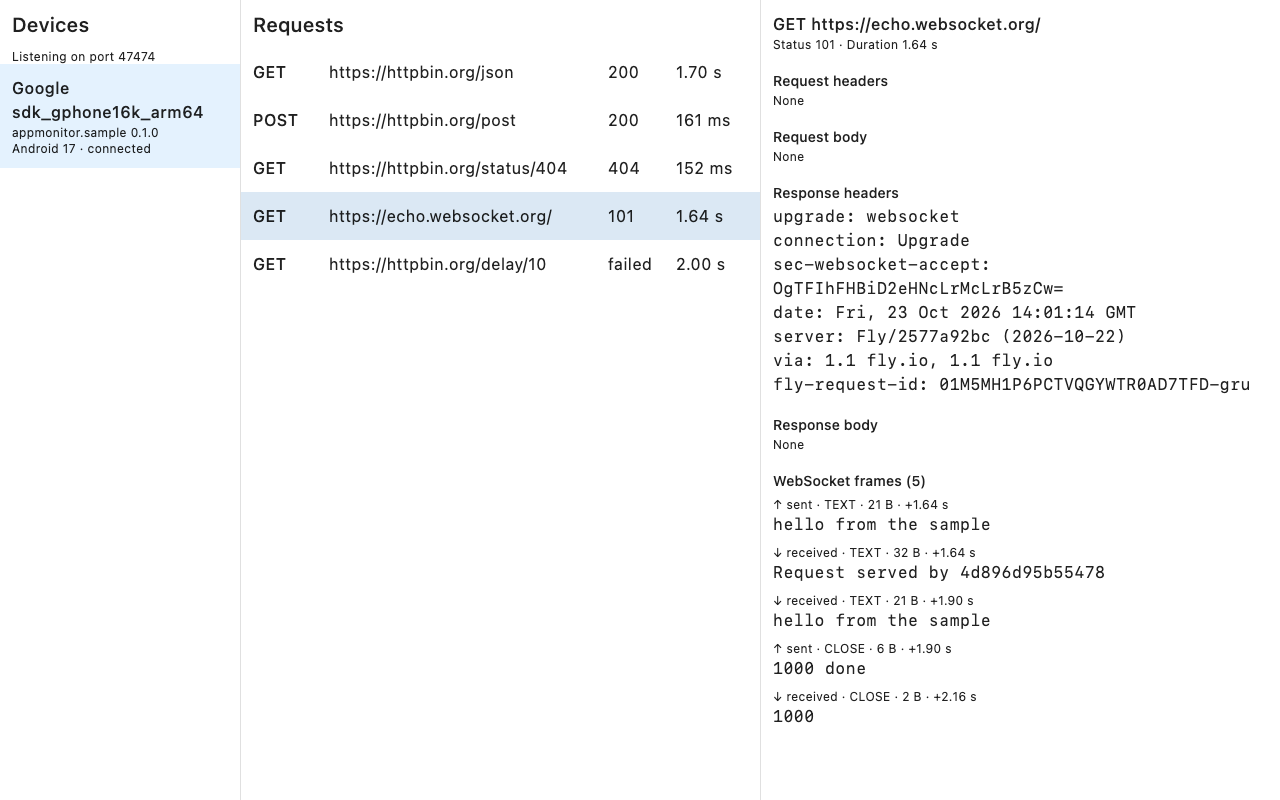
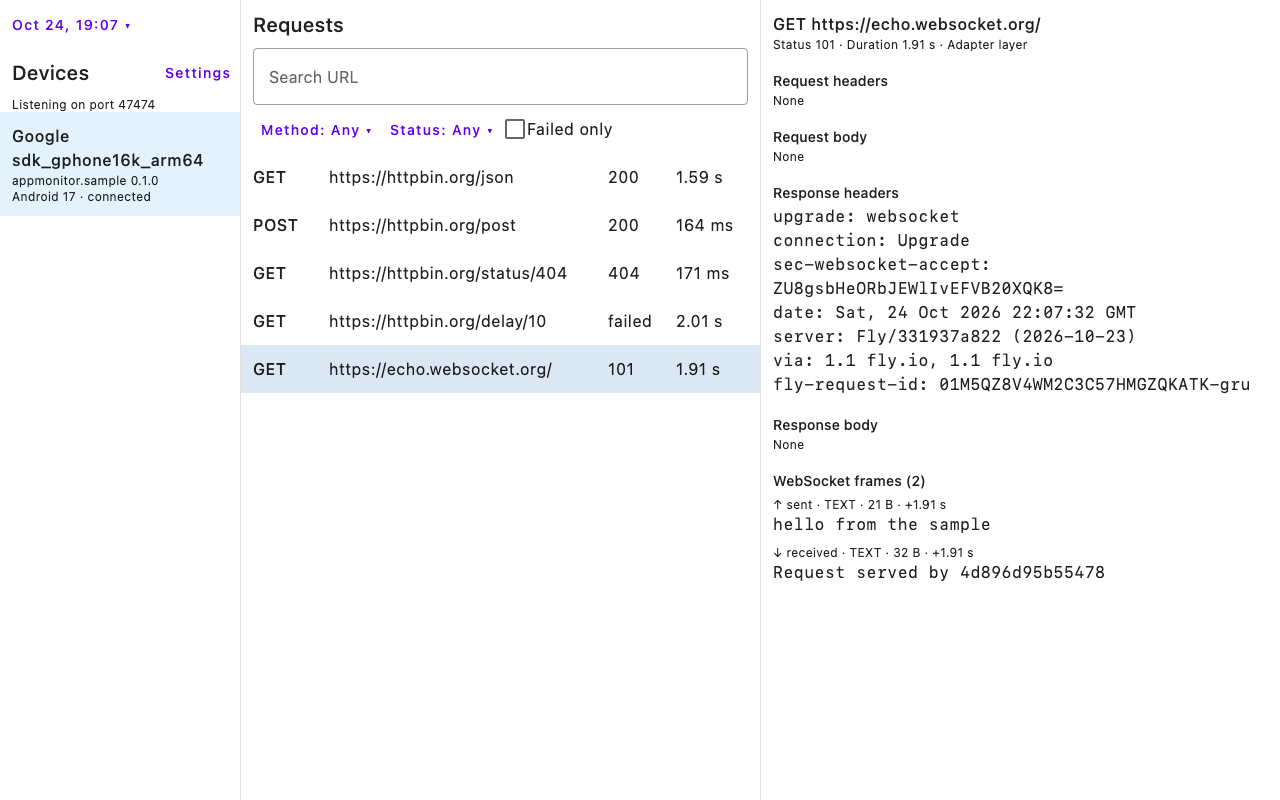
test(desktop): live check across a store reopen and the packaged app

diff --git a/desktop/app/src/test/kotlin/appmonitor/desktop/app/LiveDeviceScreenshots.kt b/desktop/app/src/test/kotlin/appmonitor/desktop/app/LiveDeviceScreenshots.kt
@@ -2,20 +2,23 @@ package appmonitor.desktop.app
 
 import androidx.compose.runtime.collectAsState
 import androidx.compose.runtime.getValue
+import androidx.compose.runtime.remember
 import androidx.compose.ui.graphics.toAwtImage
 import androidx.compose.ui.test.ComposeUiTest
 import androidx.compose.ui.test.ExperimentalTestApi
 import androidx.compose.ui.test.captureToImage
 import androidx.compose.ui.test.onAllNodesWithText
 import androidx.compose.ui.test.onFirst
+import androidx.compose.ui.test.onNodeWithTag
 import androidx.compose.ui.test.onNodeWithText
 import androidx.compose.ui.test.onRoot
 import androidx.compose.ui.test.performClick
 import androidx.compose.ui.test.v2.runDesktopComposeUiTest
+import appmonitor.desktop.app.store.ApprovalStore
 import appmonitor.desktop.app.store.TrafficStore
 import appmonitor.desktop.app.ui.AppMonitorApp
+import appmonitor.desktop.app.ui.RUNS
 import appmonitor.desktop.server.AppMonitorServer
-import appmonitor.desktop.server.DeviceApprovals
 import appmonitor.desktop.server.ServerConfig
 import appmonitor.desktop.storage.Storage
 import kotlinx.coroutines.CoroutineScope
@@ -24,6 +27,7 @@ import kotlinx.coroutines.cancel
 import kotlinx.coroutines.launch
 import kotlinx.coroutines.runBlocking
 import java.io.File
+import java.nio.file.Path
 import javax.imageio.ImageIO
 import kotlin.io.path.createTempDirectory
 import kotlin.test.Test
@@ -31,7 +35,7 @@ import kotlin.time.Duration.Companion.seconds
 
 /**
  * Not a unit test: run by `liveScreenshots` only, against a real device running the sample (ADR-0031).
- * Real server on the default port with mDNS, the window's composable rendered offscreen.
+ * Real server on the default port with mDNS, the window's composable rendered offscreen, then the store reopened.
  */
 @OptIn(ExperimentalTestApi::class)
 class LiveDeviceScreenshots {
@@ -39,13 +43,19 @@ class LiveDeviceScreenshots {
     private val exchanges = System.getProperty("liveExchanges", "5").toInt()
     private val timeoutMs = System.getProperty("liveTimeoutMs", "300000").toLong()
     private val advertise = System.getProperty("liveAdvertise", "true").toBoolean()
+    private val dir: Path = System.getProperty("liveDataDir")?.let { Path.of(it) } ?: createTempDirectory("live-screenshots")
 
     @Test
-    fun `approve a real device and show its traffic`() {
-        val approvals = DeviceApprovals()
-        val server = AppMonitorServer(ServerConfig(advertise = advertise), approval = approvals)
-        val dir = createTempDirectory("live-screenshots")
+    fun `approve a real device, show its traffic, and again after a reopen`() {
+        capture()
+        reopen()
+    }
+
+    private fun capture() {
+        lateinit var server: AppMonitorServer
         val storage = Storage.open(dir)
+        val approvals = runBlocking { ApprovalStore.open(storage) { server.disconnect(it) } }
+        server = AppMonitorServer(ServerConfig(advertise = advertise), approval = approvals.approvals)
         val store = TrafficStore(storage)
         val scope = CoroutineScope(Dispatchers.Default)
         val port = runBlocking { server.start() }
@@ -54,14 +64,16 @@ class LiveDeviceScreenshots {
             runDesktopComposeUiTest(width = 1280, height = 800) {
                 setContent {
                     val pending by approvals.pending.collectAsState()
+                    val answered by remember { approvals.stored }.collectAsState(emptyList())
                     AppMonitorApp(
                         storage,
                         "Listening on port $port",
                         pending,
-                        { device, approved -> approvals.decide(device.key, approved) },
+                        { device, approved -> scope.launch { approvals.decide(device, approved) } },
+                        answered,
                     )
                 }
-                println("liveScreenshots: listening on $port, mDNS ${if (advertise) "on" else "off"}, waiting for a device")
+                println("liveScreenshots: data in $dir, listening on $port, mDNS ${if (advertise) "on" else "off"}, waiting for a device")
                 waitUntil(timeoutMillis = timeoutMs) { onAllNodesWithText("Approve").fetchSemanticsNodes().isNotEmpty() }
                 screenshot("$name-approval.png")
                 onNodeWithText("Approve").performClick()
@@ -70,16 +82,7 @@ class LiveDeviceScreenshots {
                 waitUntil(timeoutMillis = timeoutMs) {
                     runBlocking { storage.allExchanges() }.count { it.statusCode != null || it.failed } >= exchanges
                 }
-                onAllNodesWithText("/json", substring = true).onFirst().performClick()
-                waitUntil(
-                    timeoutMillis = timeoutMs,
-                ) { onAllNodesWithText("\"slideshow\"", substring = true).fetchSemanticsNodes().isNotEmpty() }
-                screenshot("$name-traffic.png")
-                onAllNodesWithText("echo.websocket.org", substring = true).onFirst().performClick()
-                waitUntil(
-                    timeoutMillis = timeoutMs,
-                ) { onAllNodesWithText("WebSocket frames", substring = true).fetchSemanticsNodes().isNotEmpty() }
-                screenshot("$name-frames.png")
+                showJsonAndFrames()
             }
         } finally {
             scope.cancel()
@@ -89,6 +92,36 @@ class LiveDeviceScreenshots {
             }
         }
     }
+
+    private fun reopen() {
+        val storage = Storage.open(dir)
+        try {
+            runDesktopComposeUiTest(width = 1280, height = 800) {
+                setContent { AppMonitorApp(storage, "Reopened") }
+                println("liveScreenshots: store reopened, opening the earlier run")
+                onNodeWithTag(RUNS).performClick()
+                onAllNodesWithText(" – ", substring = true).onFirst().performClick()
+                waitUntil(timeoutMillis = timeoutMs) { onAllNodesWithText("/json", substring = true).fetchSemanticsNodes().isNotEmpty() }
+                onAllNodesWithText("/json", substring = true).onFirst().performClick()
+                waitFor("\"slideshow\"")
+                screenshot("$name-reopen.png")
+            }
+        } finally {
+            runBlocking { storage.close(5.seconds) }
+        }
+    }
+
+    private fun ComposeUiTest.showJsonAndFrames() {
+        onAllNodesWithText("/json", substring = true).onFirst().performClick()
+        waitFor("\"slideshow\"")
+        screenshot("$name-traffic.png")
+        onAllNodesWithText("echo.websocket.org", substring = true).onFirst().performClick()
+        waitFor("WebSocket frames")
+        screenshot("$name-frames.png")
+    }
+
+    private fun ComposeUiTest.waitFor(text: String) =
+        waitUntil(timeoutMillis = timeoutMs) { onAllNodesWithText(text, substring = true).fetchSemanticsNodes().isNotEmpty() }
 
     private fun ComposeUiTest.screenshot(file: String) {
         val out = File(System.getProperty("liveScreenshotDir"), file)

diff --git a/docs/sdd/03_code_map.md b/docs/sdd/03_code_map.md
@@ -22,7 +22,7 @@ Where each part lives in the repository.
 | `protocol/src/` | KMP module: Wire-generated code, `Protocol` constants, `DesktopSelector` (mDNS answer rule, ADR-0024); `commonTest` round-trip and selector, `jvmTest` fixture check (ADR-0008) |
 | `desktop/server/` | JVM module: `AppMonitorServer` (Ktor WebSocket, handshake, frame limit, keep-alive), `EnvelopeRules` (what closes a session with 1002, ADR-0021), `DeviceSession` flows and peer address, `DeviceApproval` / `DeviceApprovals` (who gets `HelloAck`, remembered answers and `forget`, ADR-0027), `disconnect` (a forgotten pair's sessions closed with 1008), `MdnsAdvertiser`, `ServerConfig` (ADR-0009); `shutdownHook` and its default report `printStopFailure` (bounded stop at exit, shared with the app); headless `Main.kt` that logs to stdout (ADR-0010); `AppMonitorServerTest`, `ServerHardeningTest` (1009, ping timeout, envelope rules), `DeviceApprovalTest` (pending, 1008, withdrawal, remembered, forgotten), `MdnsPartialFailureTest`, `ServerLifecycleTest`, `ShutdownHookTest`, `MainTest` (`--port` parsing, startup hook) |
 | `desktop/storage/` | JVM module, SQLDelight on sqlite-jdbc (SDD 09, ADR-0085, ADR-0086): `src/main/sqldelight/` the version-1 schema (`.sq`, one file per table group) and `databases/1.db`, the committed schema migrations are verified against; `Storage` (open, crash recovery, a new run per launch, ingest calls, runs opened and named, approvals, paged reads, search, close), `SearchQuery` (the `WHERE` of an `ExchangeFilter`, ADR-0087), `WriteQueue` (bounded by bytes, one writer thread, `StorageHealth`), `Ingest` (items to rows, one transaction per batch), `Codec` (deflate or raw), `dataDirectory`; `StorageOpenTest`, `IngestTest`, `WriteQueueTest`, `PagingTest`, `ApprovalStoreTest`, `RunsTest`, `SearchTest`, `DataDirectoryTest` |
-| `desktop/app/` | Compose desktop app: `Main.kt` (window + server), `store/` (`TrafficStore` feeding `desktop/storage`, `ApprovalStore` the answers kept in it, ADR-0083, `HttpExchange` the detail model), `ui/` (`App.kt` panes, run picker and run list, request filter bar, frames, approval panel and settings, `BodyFormat.kt` formats, off-thread `renderBody` and chunks) (ADR-0011, ADR-0029); tests for body formats, the store (`TrafficStoreTest`: 10k requests, reopen, paging), approvals across launches (`ApprovalStoreTest`) and the offscreen UI, each on a store in a temporary directory; `LiveDeviceScreenshots`, run only by `liveScreenshots` against a real device (ADR-0031) |
+| `desktop/app/` | Compose desktop app: `Main.kt` (window + server), `store/` (`TrafficStore` feeding `desktop/storage`, `ApprovalStore` the answers kept in it, ADR-0083, `HttpExchange` the detail model), `ui/` (`App.kt` panes, run picker and run list, request filter bar, frames, approval panel and settings, `BodyFormat.kt` formats, off-thread `renderBody` and chunks) (ADR-0011, ADR-0029); tests for body formats, the store (`TrafficStoreTest`: 10k requests, reopen, paging), approvals across launches (`ApprovalStoreTest`) and the offscreen UI, each on a store in a temporary directory; `LiveDeviceScreenshots`, run only by `liveScreenshots` against a real device, reopening its store at the end (ADR-0031) |
 | `tools/e2e-target/` | JVM CLI: `E2eTarget.kt` (Ktor CIO on `127.0.0.1`: the httpbin.org paths the samples call and a WebSocket echo on `/ws`), `Main.kt` (`--port`, prints `Listening on port N` and one line per request); started by `scripts/e2e_lib.sh` (ADR-0074); `E2eTargetTest` |
 | `tools/fake-client/` | JVM CLI: `Discovery.kt` (mDNS through `DesktopSelector`), `Fixtures.kt`, `Replay.kt` (handshake + replay of `protocol/fixtures`) (ADR-0010); `FakeClientTest`, `HandshakeFailureTest`, `MainTest` (CLI errors), `DiscoveryTest` |
 | `sdk/core/` | KMP (JVM, Android, iOS) SDK core, convention `appmonitor.kmp-sdk-ios` (ADR-0023, ADR-0067): `MonitorClient` (states of SDD 04 over a Ktor CIO WebSocket), `EventBuffer` (offline ring buffer), `Backoff`, `Discovery` (sources and mDNS selection, ADR-0024), `MonitorHolder` (start/stop, the process-wide `monitor`), `MonitorBridge` (opt-in `InternalAppMonitorApi` for capture modules, ADR-0025), `AppMonitorOptions` (masking and `maxBodyBytes` included), `DeviceId`, `Platform` (cleartext policy, log, connect failure hint, the device id's link and file lock); `jvmAndAndroidMain` the file lock and parent directories both JVM targets share (ADR-0080); `iosMain` `AppMonitor` (public entry point, ADR-0062 B.1), `BonjourBrowser` (`nw_browser` and `dns_sd`, ADR-0068), `IosDevice` (`Hello`, the Swift SDK's device id file), `Platform.ios` (`NSLog`, Info.plist hint), `isSimulator` from `iosArm64Main` / `iosSimulatorArm64Main`; `androidMain` `AppMonitor` (public entry point), `NsdBrowser`, `AndroidDevice` (`Hello`, permission, emulator), manifest declaring `ACCESS_LOCAL_NETWORK`; `commonTest` buffer, backoff, discovery, device id, `MonitorHolderTest`, `MonitorClientTest` against `StandInDesktop` (`ktor-server-cio`, ADR-0066 C); `iosTest` `PlatformIosTest`, `IosDeviceTest`, `IosDiscoveryTest`, `BonjourBrowserTest` (a real Bonjour round), `LiveServerTest` (`APPMONITOR_LIVE_HOST`, `APPMONITOR_LIVE_DISCOVERY`); `jvmTest` `MonitorClientDesktopTest` against an in-process `AppMonitorServer` |

diff --git a/docs/sdd/02_development_environment.md b/docs/sdd/02_development_environment.md
@@ -53,10 +53,13 @@ Module scripts apply one convention plugin from `build-logic/`:
 
 `./gradlew :desktop:app:liveScreenshots` (ADR-0031) runs the real
 `AppMonitorServer` on port 47474 with the desktop window's composable rendered
-offscreen. It waits up to 5 minutes for a device, screenshots the approval
-panel, approves it, waits for 5 finished exchanges, then screenshots the GET
-JSON and the WebSocket exchanges into `docs/screenshots/<liveName>-*.png`.
-`make desktop` must not be running (same port). The sample is driven by hand:
+offscreen, on a store and approvals like `Main.kt`'s. It waits up to 5
+minutes for a device, screenshots the approval panel, approves it (the answer
+is stored), waits for 5 finished exchanges, then screenshots the GET JSON and
+the WebSocket exchanges; it then closes the store, reopens it, picks the
+earlier run and screenshots its GET JSON again (`<liveName>-reopen.png`). All
+go into `docs/screenshots/<liveName>-*.png`. `make desktop` must not be
+running (same port). The sample is driven by hand:
 
 1. `./gradlew :samples:android:assembleDebug`, then
    `adb -s <serial> install -r samples/android/build/outputs/apk/debug/android-debug.apk`.
@@ -69,7 +72,8 @@ JSON and the WebSocket exchanges into `docs/screenshots/<liveName>-*.png`.
    `adb shell uiautomator dump`); the task ends by itself.
 
 Properties: `liveName`, `liveExchanges` (5), `liveTimeoutMs` (300000),
-`liveAdvertise` (true). The buttons call public services, so the machine and
+`liveAdvertise` (true), `liveDataDir` (a temporary directory; an empty one
+for the approval to be asked). The buttons call public services, so the machine and
 the device need internet.
 
 ### The Android sample end to end, scripted
@@ -199,6 +203,15 @@ prints, so rerun it after adding a dependency. The packages are **unsigned
 build proof**, not releases: macOS Gatekeeper and Windows SmartScreen block
 them until the user overrides (ADR-0055). The app inside listens on 47474
 like `make desktop`.
+
+To check the packaged app on a store a live run left (no Gatekeeper prompt,
+no copy to `/Applications`): mount the image with
+`hdiutil attach -readonly -nobrowse -mountpoint build/live/dmg <dmg>` and run
+`APPMONITOR_DATA_DIR=<liveDataDir> "build/live/dmg/App Monitor.app/Contents/MacOS/App Monitor"`.
+The launch opens a run of its own in the `runs` table, a device approved in
+the live run connects with no prompt and its exchanges land under that run;
+`sqlite3 <liveDataDir>/appmonitor.db` reads them, and a SIGTERM closes the run
+and the sessions. `hdiutil detach build/live/dmg` afterwards.
 
 ## SDK publication dry-run
 

diff --git a/AGENTS.md b/AGENTS.md
@@ -131,7 +131,7 @@ Full rule: `docs/guidelines/03_git_and_pull_requests.md`.
 | Desktop storage tests (open, ingest, write queue, paging, approvals, runs, search, data directory) and migration verification | `./gradlew :desktop:storage:test :desktop:storage:verifySqlDelightMigration` | active; JVM, in `make build`; temporary data directories; SDD 09, ADR-0085 |
 | Regenerate the storage schema dump after a new migration | `./gradlew :desktop:storage:generateMainAppMonitorDatabaseSchema` | active; writes the next `desktop/storage/src/main/sqldelight/databases/<version>.db`, commit it; a shipped one is never edited; ADR-0085 |
 | Desktop app tests (store on a temporary data directory, body formats, offscreen UI) | `./gradlew :desktop:app:test` | active; screenshots in `desktop/app/build/screenshots/` (`app.png`, `approval.png`, `filters.png`, `frames.png`, `reopen.png`, `runs.png`, `settings.png`); `TrafficStoreTest` prints the 10k-request time, `SearchTest` in `desktop/storage` the unindexed search time, `ApprovalStoreTest` restarts the store three times against a real server; SDD 09, ADR-0083 |
-| End to end screenshots from a real device or emulator | `./gradlew :desktop:app:liveScreenshots -PliveName=device` | active; real server on 47474, approves the first device, writes `docs/screenshots/<name>-*.png`; `-PliveAdvertise=false` forces the emulator's `10.0.2.2`; drive the sample by hand, SDD 02, ADR-0031 |
+| End to end screenshots from a real device or emulator | `./gradlew :desktop:app:liveScreenshots -PliveName=device` | active; real server on 47474, approves the first device, writes `docs/screenshots/<name>-*.png`, the last after reopening the store; `-PliveDataDir=<dir>` keeps the store for the packaged app (SDD 02); `-PliveAdvertise=false` forces the emulator's `10.0.2.2`; drive the sample by hand, SDD 02, ADR-0031 |
 | Headless desktop server, logs envelopes to stdout | `make server` | active; `ARGS="--port N"` |
 | Replay fixture traffic to a desktop | `make fake-traffic` | active; mDNS discovery, or `ARGS="--host H [--port N]"`; `--name S` picks a service, `--timeout MS` bounds discovery |
 | Local end to end target tests (httpbin.org paths, WebSocket echo) | `./gradlew :tools:e2e-target:test` | active; started by `make e2e-android` and `make e2e-ios` on `127.0.0.1`, port 0; ADR-0074 |

diff --git a/docs/plans/0006-persistence-and-runs.md b/docs/plans/0006-persistence-and-runs.md
@@ -85,7 +85,7 @@ lesson); `make debt-check` decides how each fired DEBT is handled
   applied at startup and while the app runs, clear everything.
   Accept: `./gradlew :desktop:storage:test` with a controlled clock and
   size, the oldest data deleted first and what M5.1 (b) keeps kept.
-- [ ] **M5.9 Live check.** `liveScreenshots` (ADR-0031) and a hand run of
+- [x] **M5.9 Live check.** (`liveScreenshots` now uses an `ApprovalStore`, keeps its store in `-PliveDataDir` and ends with a `<name>-reopen.png` after reopening it; emulator (API 37, `10.0.2.2`) and iPhone 17 Pro simulator (mDNS) refreshed, no phone attached so `device-*.png` kept from M1; the packaged app, run from the mounted DMG on the simulator's store with `APPMONITOR_DATA_DIR`, let the approved device in with no prompt and stored its 7 exchanges in its own run, then reopened the 14 after a quit; no Screen Recording permission, so shown in the PR by its database rows, not a window capture) `liveScreenshots` (ADR-0031) and a hand run of
   a sample against `make desktop` across a restart; the packaged app
   (`packageDmg`) opens its database.
   Accept: `docs/screenshots/` updated; the packaged app run shown in the
